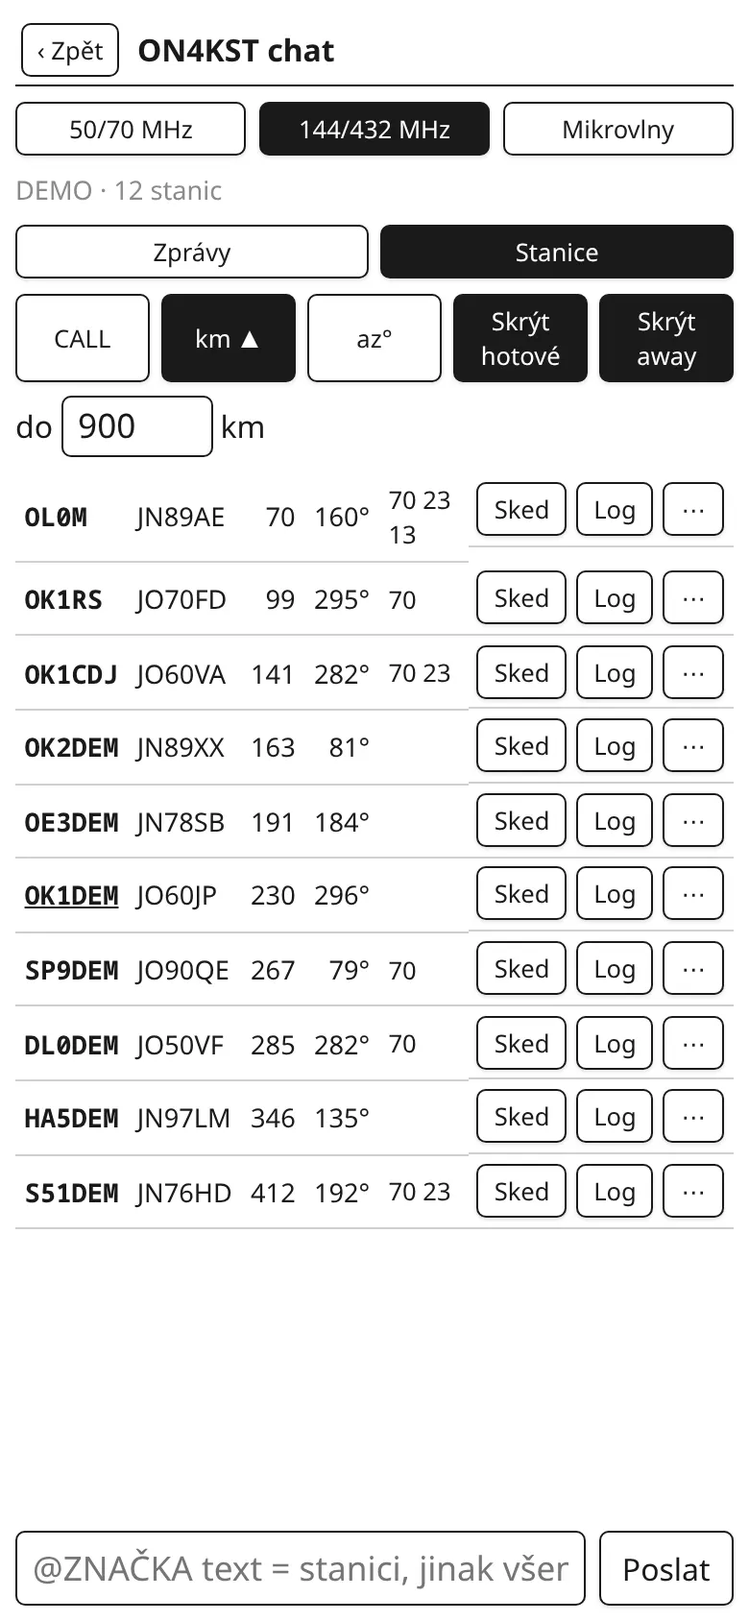
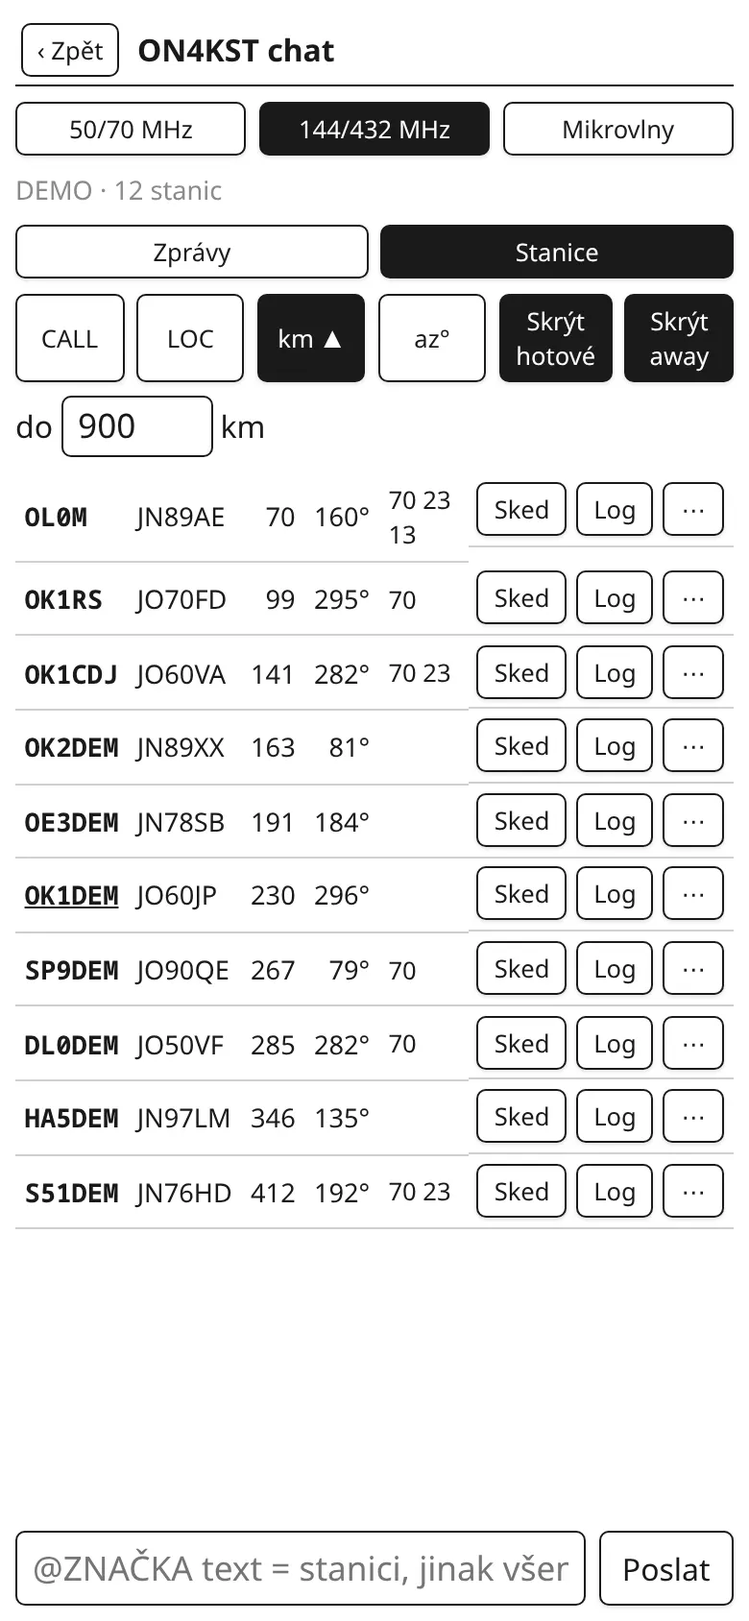
1.19: ON4KST stations under the panel scroll, sort by locator, longer chat history
The list under the contest panel shows all the chat's stations in its filters and
order (not the 30 that wrote in the last 30 minutes) and scrolls, keeping its place.
Stations sort by locator too (LOC). The chat keeps messages to me, mentioning me and
mine apart for the whole session (up to 1000) and 3000 of the others (was 500, 6–7
minutes of a busy contest); the message list draws the newest 500. "Only to me"
shows the mentions too.

Version bump: web 1.19.0 (also the iOS marketing version), Android versionCode 28 /
1.19. CHANGELOG [1.19], What's new 1.19, Play changelogs 28, manual and website text,
chat screenshots.

Changed region(s): [[0.5538, 0.1848, 0.9538, 0.2464], [0.1538, 0.154, 0.5231, 0.2464], [0.0615, 0.1848, 0.1231, 0.2156]]

diff --git a/web/public/manual/en.html b/web/public/manual/en.html
@@ -211,8 +211,8 @@
 <figure class="crop"><img src="img/en/settings-kst.webp" alt="Settings, ON4KST chat" width="374" height="744" loading="lazy"><figcaption>Settings → ON4KST chat.</figcaption></figure>
 <figure class="crop"><img src="img/en/chat-consent.webp" alt="Chat rules" width="374" height="446" loading="lazy"><figcaption>The rules before the first connection.</figcaption></figure>
 </div>
-<p><b>Messages:</b> newest at the bottom; messages to you are bold with a bar on the left, and <b>Only to me</b> shows just those. Messages of stations you already have on the log's band are grey. A tap on a message puts the sender's <code>@CALL</code> into the line at the bottom: add the text and press Enter. <code>@OK1ABC text</code> goes to that station, text without <code>@</code> to everyone in the room. The line also takes ON4KST commands as typed: <code>/SETNAME Ondra 2/70/23</code> (the name, often with the bands), <code>/SETLOC JN79US</code>.</p>
-<p><b>Stations:</b> locator, distance and bearing from the log's locator. Sort by call, km or bearing; tapping the same sort again reverses it (▲ / ▼). <b>Hide worked</b> hides the stations you already have on the log's band, <b>Hide away</b> those who are away. <b>Up to … km</b> shows only the stations within that distance (900 km by default; an empty field = no limit, stations without a locator stay); it applies to the list under the contest panel too. A station that just joined is underlined. After the bearing come the <b>bands the station is QRV on</b> (except the log's band; struck out = already worked): kQSO reads them from the name (<code>Bert 2/70/23</code>, <code>6&amp;2m</code>), from the station's messages (<code>qrv 1296.150</code>, <code>no 23</code>) and from skeds sent to it, and adds those from the callsign database. The list under the contest panel and the QRV chip while logging show them too. <b>Sked</b> puts the sked request into the line, <b>Log</b> goes back to the log with the call and locator typed in. On a narrow screen the names are left out.</p>
+<p><b>Messages:</b> newest at the bottom; messages to you are bold with a bar on the left, and <b>Only to me</b> shows just those, the ones mentioning your call and your own, from the whole session. Messages of stations you already have on the log's band are grey. A tap on a message puts the sender's <code>@CALL</code> into the line at the bottom: add the text and press Enter. <code>@OK1ABC text</code> goes to that station, text without <code>@</code> to everyone in the room. The line also takes ON4KST commands as typed: <code>/SETNAME Ondra 2/70/23</code> (the name, often with the bands), <code>/SETLOC JN79US</code>.</p>
+<p><b>Stations:</b> locator, distance and bearing from the log's locator. Sort by call, locator, km or bearing (stations without a locator last); tapping the same sort again reverses it (▲ / ▼). <b>Hide worked</b> hides the stations you already have on the log's band, <b>Hide away</b> those who are away. <b>Up to … km</b> shows only the stations within that distance (900 km by default; an empty field = no limit, stations without a locator stay); it applies to the list under the contest panel too. A station that just joined is underlined. After the bearing come the <b>bands the station is QRV on</b> (except the log's band; struck out = already worked): kQSO reads them from the name (<code>Bert 2/70/23</code>, <code>6&amp;2m</code>), from the station's messages (<code>qrv 1296.150</code>, <code>no 23</code>) and from skeds sent to it, and adds those from the callsign database. The list under the contest panel and the QRV chip while logging show them too. <b>Sked</b> puts the sked request into the line, <b>Log</b> goes back to the log with the call and locator typed in. On a narrow screen the names are left out.</p>
 <div class="figs">
 <figure class="phone"><img src="img/en/chat-messages.webp" alt="Messages" width="390" height="844" loading="lazy"><figcaption>Messages; the last one is to me.</figcaption></figure>
 <figure class="phone"><img src="img/en/chat-stations.webp" alt="Stations" width="390" height="844" loading="lazy"><figcaption>Stations by distance.</figcaption></figure>
@@ -230,7 +230,7 @@
 <figure class="crop"><img src="img/en/chat-line.webp" alt="Message from the log line" width="390" height="170" loading="lazy"><figcaption><code>@OL0M …</code> goes to the chat.</figcaption></figure>
 <figure class="crop"><img src="img/en/chat-g.webp" alt="Sked QRG" width="390" height="170" loading="lazy"><figcaption><code>G 144.290 cw</code>: the 2 m sked QRG.</figcaption></figure>
 </div>
-<p><b>Active stations under the contest panel:</b> on a tablet or computer in landscape, kQSO lists the stations that wrote in the chat in the last 30 minutes under the contest panel, sorted and filtered as the chat's station list. A tap writes <code>@CALL</code>, <b>S</b> the sked request.</p>
+<p><b>Stations under the contest panel:</b> on a tablet or computer in landscape, kQSO lists the chat's stations under the contest panel, sorted and filtered as the chat's station list; the list scrolls. A tap writes <code>@CALL</code>, <b>S</b> the sked request.</p>
 <figure class="wide"><img src="img/en/chat-tablet.webp" alt="The chat on a tablet" width="1280" height="800" loading="lazy"><figcaption>Tablet: a message to me under the header, the active stations under the contest panel.</figcaption></figure>
 <p><b>Locator:</b> the QRB and bearing the others see come from your ON4KST account's locator. When it differs from the log's (portable), the chat and the list under the panel offer <b>Set JN89AB</b>, which sends <code>/SETLOC</code>. Nothing is sent by itself.</p>
 <p><b>Apps and web:</b> the Android and iOS apps connect to ON4KST directly. A browser can't, so the web version goes through the kQSO relay, which only passes the data on and stores nothing. The ON4KST protocol sends the password unencrypted; it is stored only on your device.</p>

diff --git a/web/public/manual/cs.html b/web/public/manual/cs.html
@@ -211,8 +211,8 @@
 <figure class="crop"><img src="img/cs/settings-kst.webp" alt="Nastavení ON4KST chat" width="374" height="745" loading="lazy"><figcaption>Nastavení → ON4KST chat.</figcaption></figure>
 <figure class="crop"><img src="img/cs/chat-consent.webp" alt="Pravidla chatu" width="374" height="424" loading="lazy"><figcaption>Pravidla před prvním připojením.</figcaption></figure>
 </div>
-<p><b>Zprávy:</b> nejnovější dole; zprávy pro tebe jsou tučně s čárou vlevo a <b>Jen pro mě</b> ukáže jen je. Zprávy stanic, které už máš na pásmu logu, jsou šedé. Klepnutí na zprávu napíše do řádku dole <code>@ZNAČKA</code> odesílatele, stačí dopsat text a Enter. <code>@OK1ABC text</code> jde stanici, text bez <code>@</code> všem v místnosti. Řádek přijme i příkazy ON4KST tak, jak jsou: <code>/SETNAME Ondra 2/70/23</code> (jméno, často s pásmy), <code>/SETLOC JN79US</code>.</p>
-<p><b>Stanice:</b> lokátor, vzdálenost a azimut od lokátoru logu. Řadí se podle značky, km nebo azimutu; druhé klepnutí na stejné řazení ho obrátí (▲ / ▼). <b>Skrýt hotové</b> schová stanice, které už máš na pásmu logu, <b>Skrýt away</b> ty, které jsou pryč. <b>Do … km</b> ukáže jen stanice do té vzdálenosti (výchozí 900 km; prázdné pole = bez omezení, stanice bez lokátoru zůstávají); platí i pro seznam pod závodním panelem. Nově příchozí stanice je podtržená. Za azimutem jsou <b>pásma, na kterých je stanice QRV</b> (kromě pásma logu, přeškrtnutá už máš): kQSO je čte ze jména (<code>Bert 2/70/23</code>, <code>6&amp;2m</code>), ze zpráv stanice (<code>qrv 1296.150</code>, <code>no 23</code>) a ze skedů, které jí přišly, a přidá ta z databáze značek. Stejně je ukáže i seznam pod závodním panelem a štítek QRV při zápisu spojení. <b>Sked</b> napíše do řádku žádost o sked, <b>Log</b> se vrátí do logu se značkou a lokátorem na řádku. Na úzkém displeji se jména nezobrazují.</p>
+<p><b>Zprávy:</b> nejnovější dole; zprávy pro tebe jsou tučně s čárou vlevo a <b>Jen pro mě</b> ukáže jen je, zprávy zmiňující tvou značku a tvoje vlastní, za celou relaci. Zprávy stanic, které už máš na pásmu logu, jsou šedé. Klepnutí na zprávu napíše do řádku dole <code>@ZNAČKA</code> odesílatele, stačí dopsat text a Enter. <code>@OK1ABC text</code> jde stanici, text bez <code>@</code> všem v místnosti. Řádek přijme i příkazy ON4KST tak, jak jsou: <code>/SETNAME Ondra 2/70/23</code> (jméno, často s pásmy), <code>/SETLOC JN79US</code>.</p>
+<p><b>Stanice:</b> lokátor, vzdálenost a azimut od lokátoru logu. Řadí se podle značky, lokátoru, km nebo azimutu (stanice bez lokátoru na konci); druhé klepnutí na stejné řazení ho obrátí (▲ / ▼). <b>Skrýt hotové</b> schová stanice, které už máš na pásmu logu, <b>Skrýt away</b> ty, které jsou pryč. <b>Do … km</b> ukáže jen stanice do té vzdálenosti (výchozí 900 km; prázdné pole = bez omezení, stanice bez lokátoru zůstávají); platí i pro seznam pod závodním panelem. Nově příchozí stanice je podtržená. Za azimutem jsou <b>pásma, na kterých je stanice QRV</b> (kromě pásma logu, přeškrtnutá už máš): kQSO je čte ze jména (<code>Bert 2/70/23</code>, <code>6&amp;2m</code>), ze zpráv stanice (<code>qrv 1296.150</code>, <code>no 23</code>) a ze skedů, které jí přišly, a přidá ta z databáze značek. Stejně je ukáže i seznam pod závodním panelem a štítek QRV při zápisu spojení. <b>Sked</b> napíše do řádku žádost o sked, <b>Log</b> se vrátí do logu se značkou a lokátorem na řádku. Na úzkém displeji se jména nezobrazují.</p>
 <div class="figs">
 <figure class="phone"><img src="img/cs/chat-messages.webp" alt="Zprávy" width="390" height="844" loading="lazy"><figcaption>Zprávy; poslední je pro mě.</figcaption></figure>
 <figure class="phone"><img src="img/cs/chat-stations.webp" alt="Stanice" width="390" height="844" loading="lazy"><figcaption>Stanice podle vzdálenosti.</figcaption></figure>
@@ -230,7 +230,7 @@
 <figure class="crop"><img src="img/cs/chat-line.webp" alt="Zpráva z řádku logu" width="390" height="170" loading="lazy"><figcaption><code>@OL0M …</code> jde do chatu.</figcaption></figure>
 <figure class="crop"><img src="img/cs/chat-g.webp" alt="QRG pro sked" width="390" height="170" loading="lazy"><figcaption><code>G 144.290 cw</code>: QRG pro sked na 2 m.</figcaption></figure>
 </div>
-<p><b>Aktivní stanice pod závodním panelem:</b> na tabletu nebo počítači na šířku ukáže kQSO pod závodním panelem stanice, které v chatu psaly posledních 30 minut, se stejným řazením a filtry jako seznam stanic v chatu. Klepnutí napíše <code>@ZNAČKA</code>, <b>S</b> žádost o sked.</p>
+<p><b>Stanice pod závodním panelem:</b> na tabletu nebo počítači na šířku ukáže kQSO pod závodním panelem stanice z chatu se stejným řazením a filtry jako seznam stanic v chatu; seznamem jde posouvat. Klepnutí napíše <code>@ZNAČKA</code>, <b>S</b> žádost o sked.</p>
 <figure class="wide"><img src="img/cs/chat-tablet.webp" alt="Chat na tabletu" width="1280" height="800" loading="lazy"><figcaption>Tablet: zpráva pro mě pod hlavičkou, aktivní stanice pod závodním panelem.</figcaption></figure>
 <p><b>Lokátor:</b> QRB a azimut, které vidí ostatní, počítá ON4KST z lokátoru tvého účtu. Když se liší od lokátoru logu (portable), nabídne chat i seznam pod panelem <b>Nastavit JN89AB</b>, které pošle <code>/SETLOC</code>. Samo se nic neposílá.</p>
 <p><b>Aplikace a web:</b> aplikace pro Android a iOS se k ON4KST připojují přímo. Prohlížeč to neumí, proto webová verze jde přes relé kQSO, které data jen předává a nic neukládá. Protokol ON4KST posílá heslo nešifrovaně; uložené je jen v tvém zařízení.</p>

diff --git a/web/src/ui/screens/logging.ts b/web/src/ui/screens/logging.ts
@@ -55,7 +55,6 @@ import {
   kstStations,
   locatorToSet,
   matchSkedQrg,
-  isActive,
   viewStations,
   SKED_DEFAULT,
 } from '../../core/index'
@@ -123,7 +122,6 @@ const MACRO_BUTTONS: ReadonlyArray<readonly [MacroSlot, string | undefined]> = [
 const F_SLOTS: readonly MacroSlot[] = ['CQ', 'EXCH', 'TU', '?', 'MYCALL', 'INFO']
 // ON4KST chat: a line bubble for the header button; rows of the station list under the board.
 const CHAT_ICON = 'M4 5h16v11H10l-4 4v-4H4z'
-const CHAT_ROWS = 30 // rendered; CSS clips whatever doesn't fit under the board
 
 export class LoggingScreen implements Screen {
   private meta!: LogMeta
@@ -149,6 +147,8 @@ export class LoggingScreen implements Screen {
   // Right column in the wide contest layout: the board, under it the chat's active stations.
   private readonly sideEl = el('div', 'side')
   private readonly stationsEl = el('div', 'kst-side')
+  private readonly stationsHeadEl = el('div', 'kst-side-head')
+  private readonly stationsListEl = el('ol', 'kst-side-list') // scrolls; kept across re-renders
   private stationsKey = '' // what the station list shows (re-render on change only: e-ink)
   private skedTemplate = SKED_DEFAULT
   private readonly inputEl = el('div', 'inputline')
@@ -327,10 +327,7 @@ export class LoggingScreen implements Screen {
     this.updateBoard()
     // First tick on the next whole period (e-ink: the minute), so the clock doesn't lag up to a minute.
     const ms = this.board.tickMs
-    const tick = (): void => {
-      this.board.tick(new Date())
-      this.renderStations() // "active" ages out with time
-    }
+    const tick = (): void => this.board.tick(new Date())
     this.boardTimer = setTimeout(() => {
       tick()
       this.boardTimer = setInterval(tick, ms)
@@ -1733,8 +1730,9 @@ export class LoggingScreen implements Screen {
     this.renderAll()
   }
 
-  /** Under the board: the chat's active stations, filtered and sorted as in the chat
-   *  (KstController.view); a tap addresses one, S fills in the sked request. Rewritten only on change. */
+  /** Under the board: the chat's stations, filtered and sorted as in the chat
+   *  (KstController.view), in a list that scrolls; a tap addresses one, S fills in the sked
+   *  request. Rewritten only on change, keeping the scroll position. */
   private renderStations(): void {
     if (this.sideEl.hidden || !this.chatOn() || (!this.kst.wanted && this.kst.link !== 'on')) {
       if (this.stationsKey !== '') this.stationsEl.replaceChildren()
@@ -1742,25 +1740,24 @@ export class LoggingScreen implements Screen {
       return
     }
     const band = this.state.sticky.band
-    const now = Date.now() / 1000
     const rows = viewStations(
-      kstStations(this.kst.chat, this.meta.myGrid, (c) => isDupe(this.qsos, c, band)).filter((s) => isActive(s, now) && !this.kst.isMuted(s.call)),
+      kstStations(this.kst.chat, this.meta.myGrid, (c) => isDupe(this.qsos, c, band)).filter((s) => !this.kst.isMuted(s.call)),
       this.kst.view,
-    ).slice(0, CHAT_ROWS)
-    const head = this.kst.link === 'on' ? t('kst.active', { n: rows.length }) : this.kst.link === 'off' || this.kst.link === 'failed' ? t('kst.off') : t('kst.connecting')
+    )
+    const head = this.kst.link === 'on' ? t('kst.shown', { n: rows.length }) : this.kst.link === 'off' || this.kst.link === 'failed' ? t('kst.off') : t('kst.connecting')
     const loc = this.kst.link === 'on' ? locatorToSet(this.kst.locator, this.meta.myGrid) : undefined
     const key = [this.kst.room, head, loc, ...rows.map((s) => `${s.call}|${s.loc}|${s.km}|${s.az}|${s.isNew}|${s.worked}|${s.away}|${this.kst.qrvOf(s.call) ?? ''}`)].join(';')
     if (key === this.stationsKey) return
     this.stationsKey = key
-    const title = el('div', 'kst-side-head', `KST · ${head}`)
-    const list = el('ol', 'kst-side-list')
+    this.stationsHeadEl.textContent = `KST · ${head}`
+    const items: HTMLElement[] = []
     if (loc) {
       // ON4KST has me elsewhere: the others' QRB is wrong — a tap sends /SETLOC.
       const li = el('li')
       const set = this.suggestButton(`${t('kst.setLoc', { loc })} (ON4KST ${this.kst.locator ?? ''})`, () => this.setKstLocator(loc), 'kst-side-row kst-side-row--new')
       set.title = t('kst.locDiffers', { kst: this.kst.locator ?? '', log: loc })
       li.append(set)
-      list.append(li)
+      items.push(li)
     }
     for (const s of rows) {
       const li = el('li')
@@ -1770,10 +1767,13 @@ export class LoggingScreen implements Screen {
       const qrv = this.qrvLabelsEl(baseCall(s.call), band)
       if (qrv) row.append(' ', qrv)
       li.append(row, sked)
-      list.append(li)
+      items.push(li)
     }
-    if (rows.length === 0 && this.kst.link === 'on') list.append(el('li', 'about', t('kst.noActive')))
-    this.stationsEl.replaceChildren(title, list)
+    if (rows.length === 0 && this.kst.link === 'on') items.push(el('li', 'about', t('kst.noStations')))
+    const top = this.stationsListEl.scrollTop
+    this.stationsListEl.replaceChildren(...items)
+    this.stationsListEl.scrollTop = top
+    if (this.stationsEl.firstChild !== this.stationsHeadEl) this.stationsEl.replaceChildren(this.stationsHeadEl, this.stationsListEl)
   }
 
   private skedText(): string {

diff --git a/web/src/core/kst.ts b/web/src/core/kst.ts
@@ -12,8 +12,12 @@ export const KST_PORT = 23001
 /** 1 = 50/70 MHz, 2 = 144/432 MHz, 3 = microwaves. */
 export type KstRoom = 1 | 2 | 3
 
-/** Messages kept per state (oldest dropped). */
-export const KST_MESSAGES_MAX = 500
+/** Messages between the others kept per state, oldest dropped (a busy contest has ~80 a
+ *  minute: over half an hour). */
+export const KST_MESSAGES_MAX = 3000
+/** Mine, to me and mentioning me: kept apart from the others, so a sked request from an hour
+ *  ago is still there however busy the room. */
+export const KST_PERSONAL_MAX = 1000
 
 /** The room for a band: 6 m / 4 m → 1, 2 m / 70 cm → 2, 23 cm and up → 3; HF → undefined. */
 export function roomForBand(band: string): KstRoom | undefined {
@@ -236,6 +240,8 @@ export class KstState {
   readonly users = new Map<string, KstUser>()
   /** Oldest first. */
   readonly messages: KstEntry[] = []
+  /** How many of `messages` are personal (isPersonal). */
+  private personal = 0
   /** Newest message time, for LOGINC on reconnect (ask from lastTs - 1). */
   lastTs = 0
   /** The station list after login is complete (UE received). */
@@ -302,12 +308,24 @@ export class KstState {
     let i = this.messages.length
     while (i > 0 && this.messages[i - 1]!.ts > msg.ts) i--
     this.messages.splice(i, 0, entry)
-    if (this.messages.length > KST_MESSAGES_MAX) {
-      const old = this.messages.shift()!
-      this.seen.delete(`${old.ts}|${old.call}|${old.text}`)
-    }
+    if (this.isPersonal(entry)) this.personal++
+    if (this.personal > KST_PERSONAL_MAX) this.dropOldest(true)
+    if (this.messages.length - this.personal > KST_MESSAGES_MAX) this.dropOldest(false)
     this.lastTs = Math.max(this.lastTs, msg.ts)
     return entry
+  }
+
+  /** Mine, to me or mentioning me. */
+  isPersonal(m: KstEntry): boolean {
+    return m.forMe || m.mentionsMe || this.isMe(m.call)
+  }
+
+  private dropOldest(personal: boolean): void {
+    const i = this.messages.findIndex((m) => this.isPersonal(m) === personal)
+    if (i < 0) return
+    const [old] = this.messages.splice(i, 1)
+    if (personal) this.personal--
+    this.seen.delete(`${old!.ts}|${old!.call}|${old!.text}`)
   }
 }
 
@@ -442,12 +460,12 @@ export interface KstStation extends KstUser {
   readonly lastTs: number | undefined
 }
 
-export type KstSort = 'call' | 'km' | 'az'
+export type KstSort = 'call' | 'loc' | 'km' | 'az'
 
 /** How the station lists are shown; shared by the chat screen and the logging screen. */
 export interface KstView {
   readonly sort: KstSort
-  /** Descending: Z–A, farthest, 360° first. */
+  /** Descending: Z–A (call or locator), farthest, 360° first. */
   readonly desc: boolean
   readonly hideWorked: boolean
   readonly hideAway: boolean
@@ -479,11 +497,12 @@ export function isActive(s: KstStation, nowS: number, windowS = KST_ACTIVE_S): b
   return s.lastTs !== undefined && nowS - s.lastTs <= windowS
 }
 
-/** Sorted copy; unknown km / az last in both directions. */
+/** Sorted copy; no locator / unknown km / az last in both directions. */
 export function sortStations(list: readonly KstStation[], by: KstSort, desc = false): KstStation[] {
   const dir = desc ? -1 : 1
   return [...list].sort((a, b) => {
     if (by === 'call') return dir * a.call.localeCompare(b.call)
+    if (by === 'loc') return (a.loc ? 0 : 1) - (b.loc ? 0 : 1) || dir * a.loc.localeCompare(b.loc) || a.call.localeCompare(b.call)
     const x = a[by]
     const y = b[by]
     if (x === undefined || y === undefined) return (x === undefined ? 1 : 0) - (y === undefined ? 1 : 0) || a.call.localeCompare(b.call)

diff --git a/web/tests/kst.test.ts b/web/tests/kst.test.ts
@@ -18,6 +18,7 @@ import {
   KstState,
   KstSession,
   KST_MESSAGES_MAX,
+  KST_PERSONAL_MAX,
   kstStations,
   isActive,
   sortStations,
@@ -192,8 +193,19 @@ describe('KstState', () => {
     expect(s.apply(ch(10, 'OK1KPA', 'pse sked', 'OK1CDJ'))).toBeUndefined() // repeated history
     expect(s.lastTs).toBe(13)
     for (let i = 0; i < KST_MESSAGES_MAX + 5; i++) s.apply(ch(100 + i, 'X', `m${i}`))
-    expect(s.messages.length).toBe(KST_MESSAGES_MAX)
-    expect(s.messages[0]!.text).toBe('m5')
+    // The others drop oldest first; mine, to me and mentioning me stay.
+    expect(s.messages.length).toBe(KST_MESSAGES_MAX + 3)
+    expect(s.messages.slice(0, 5).map((m) => m.text)).toEqual(['pse sked', 'ok1cdj is qrv 432.2', 'cq OK1CDJ', 'm5', 'm6'])
+    expect(s.apply(ch(100, 'X', 'm0'))).toBeDefined() // dropped, so new again
+  })
+
+  it('keeps the personal messages apart, up to their own limit', () => {
+    const s = new KstState('OK1CDJ')
+    for (let i = 0; i < KST_PERSONAL_MAX + 3; i++) s.apply(ch(10 + i, 'OK1KPA', `p${i}`, 'OK1CDJ'))
+    s.apply(ch(5000, 'X', 'other'))
+    expect(s.messages.length).toBe(KST_PERSONAL_MAX + 1)
+    expect(s.messages[0]!.text).toBe('p3')
+    expect(s.messages.at(-1)!.text).toBe('other')
   })
 
   it('keeps messages oldest first although the history comes newest first', () => {
@@ -342,6 +354,10 @@ describe('station list', () => {
     expect(km.map((s) => s.km).slice(0, 3)).toEqual([...km.map((s) => s.km).slice(0, 3)].sort((a, b) => b! - a!))
     const az = sortStations(list, 'az', true)
     expect(az.at(-1)!.call).toBe('XX1XX')
+  })
+  it('sorts by locator A–Z or Z–A; no locator last', () => {
+    expect(sortStations(list, 'loc').map((s) => s.loc)).toEqual(['JO60LJ', 'JO62AA', 'JO82EH', ''])
+    expect(sortStations(list, 'loc', true).map((s) => s.loc)).toEqual(['JO82EH', 'JO62AA', 'JO60LJ', ''])
   })
   it('the view filters worked and away, then sorts', () => {
     const v = { sort: 'call', desc: false, hideWorked: true, hideAway: true, maxKm: null } as const

diff --git a/web/src/ui/screens/chat.ts b/web/src/ui/screens/chat.ts
@@ -32,6 +32,8 @@ export interface ChatContext {
 
 // Kept while the app runs: coming back shows the same tab (sort and filters are in the controller).
 let tab: 'messages' | 'stations' = 'messages'
+/** Messages drawn in the list (the newest). */
+const SHOWN_MAX = 500
 let onlyMe = false
 
 const ROOMS: readonly KstRoom[] = [1, 2, 3]
@@ -204,7 +206,9 @@ export class ChatScreen implements Screen {
     this.toolsEl.replaceChildren(this.toggle(t('kst.onlyMe'), onlyMe, () => (onlyMe = !onlyMe)))
     const stick = this.bodyEl.scrollHeight - this.bodyEl.scrollTop - this.bodyEl.clientHeight < 40
     const k = this.kst
-    const msgs = k.chat.messages.filter((m) => !k.isMuted(m.call) && (!onlyMe || m.forMe || k.chat.isMe(m.call)))
+    // The chat keeps more than is worth drawing on every message: all of "only to me", the
+    // newest SHOWN_MAX of the rest.
+    const msgs = k.chat.messages.filter((m) => !k.isMuted(m.call) && (!onlyMe || k.chat.isPersonal(m))).slice(onlyMe ? 0 : -SHOWN_MAX)
     if (msgs.length === 0) {
       this.bodyEl.replaceChildren(el('div', 'about', t('kst.empty')))
       return
@@ -242,6 +246,7 @@ export class ChatScreen implements Screen {
       )
     const tools = [
       sortBtn('call', 'CALL'),
+      sortBtn('loc', 'LOC'),
       sortBtn('km', 'km'),
       sortBtn('az', 'az°'),
       this.toggle(t('kst.hideWorked'), v.hideWorked, () => k.setView({ hideWorked: !v.hideWorked })),

diff --git a/web/src/core/whatsnew.ts b/web/src/core/whatsnew.ts
@@ -14,6 +14,19 @@ export interface WhatsNewEntry {
 /** Newest first. */
 export const WHATS_NEW: readonly WhatsNewEntry[] = [
   {
+    version: '1.19',
+    cs: [
+      'ON4KST chat: stanice pod závodním panelem jsou všechny podle filtrů a řazení chatu a seznamem jde posouvat. Stanice jdou řadit i podle lokátoru (LOC).',
+      'Chat drží delší historii: zprávy pro tebe, zmínky o tvé značce a tvoje zprávy po celou relaci (Jen pro mě, detail stanice), ostatní přes půl hodiny rušného závodu.',
+      'Nový web kqso.eu: co kQSO umí, v češtině i angličtině.',
+    ],
+    en: [
+      'ON4KST chat: the stations under the contest panel are all of them in the chat\'s filters and order, in a list that scrolls. Stations also sort by locator (LOC).',
+      'The chat keeps a longer history: messages to you, mentioning your call and your own for the whole session (Only to me, a station\'s details), the others over half an hour of a busy contest.',
+      'A new website, kqso.eu: what kQSO does, in English and Czech.',
+    ],
+  },
+  {
     version: '1.18',
     cs: [
       'VKV závod spojení nikdy nemaže: D a Zneplatnit v úpravě QSO ho přeškrtnou jako ERROR. Zůstane v logu se svým číslem a 0 body a v EDI je jako ERROR, aby odeslaná čísla šla po sobě. Duplicitu kQSO zaloguje až po potvrzení a předchozí QSO na pásmu se pak stane ERROR.',

diff --git a/site/pages/cs/contests.html b/site/pages/cs/contests.html
@@ -88,7 +88,7 @@ description: kQSO ve VKV závodě: plnohodnotný deník pro více pásem až po 
     </div>
     <div class="split" style="margin-top:1.5rem">
       <ul class="ticks">
-        <li><b>Stanice</b> s lokátorem, vzdáleností a azimutem od tebe. Řadíš podle značky, km nebo azimutu, skryješ udělané a stanice away, omezíš vzdálenost (výchozí 900 km).</li>
+        <li><b>Stanice</b> s lokátorem, vzdáleností a azimutem od tebe. Řadíš podle značky, lokátoru, km nebo azimutu, skryješ udělané a stanice away, omezíš vzdálenost (výchozí 900 km).</li>
         <li><b>Pásma QRV</b> u každé stanice: kQSO je vyčte ze jména (<code>Bert 2/70/23</code>), ze zpráv (<code>qrv 1296.150</code>) a doplní z databáze. Pásma, kde už stanici máš, jsou přeškrtnutá.</li>
         <li><b>Sked</b> jedním ťuknutím podle tvé šablony (<code>pse sked {QRG} {MODE}?</code>). Sked kmitočet si nastavíš pro každé pásmo: <code>G 144.290</code>.</li>
         <li><b>Log</b> tě vrátí do deníku se značkou a lokátorem stanice už v řádku.</li>

diff --git a/site/pages/en/contests.html b/site/pages/en/contests.html
@@ -88,7 +88,7 @@ description: kQSO in a VHF contest: a full multi-band log up to the microwaves, 
     </div>
     <div class="split" style="margin-top:1.5rem">
       <ul class="ticks">
-        <li><b>Stations</b> with locator, distance and bearing from you. Sort by call, km or bearing, hide the worked and away ones, limit the distance (900 km by default).</li>
+        <li><b>Stations</b> with locator, distance and bearing from you. Sort by call, locator, km or bearing, hide the worked and away ones, limit the distance (900 km by default).</li>
         <li><b>QRV bands</b> for each station: kQSO reads them from the name (<code>Bert 2/70/23</code>), from the messages (<code>qrv 1296.150</code>) and adds those from the database. Bands where you already have the station are struck out.</li>
         <li><b>Sked</b> in one tap from your template (<code>pse sked {QRG} {MODE}?</code>). The sked QRG is set per band: <code>G 144.290</code>.</li>
         <li><b>Log</b> takes you back to the log with the station's call and locator already on the line.</li>

diff --git a/web/src/ui/i18n.ts b/web/src/ui/i18n.ts
@@ -323,8 +323,8 @@ const en = {
   'kst.sked': 'Sked',
   'kst.toLog': 'Log',
   'kst.public': 'to all',
-  'kst.active': '{n} active',
-  'kst.noActive': 'No active stations.',
+  'kst.shown': 'stations: {n}',
+  'kst.noStations': 'No stations.',
   'kst.empty': 'No messages yet.',
   'kst.cmdOpen': 'Open the ON4KST chat',
   'kst.locDiffers': 'ON4KST has you in {kst}, the log in {log}: the others see a wrong QRB.',
@@ -776,8 +776,8 @@ const cs: Record<keyof typeof en, string> = {
   'kst.sked': 'Sked',
   'kst.toLog': 'Log',
   'kst.public': 'všem',
-  'kst.active': '{n} aktivních',
-  'kst.noActive': 'Žádné aktivní stanice.',
+  'kst.shown': 'stanice: {n}',
+  'kst.noStations': 'Žádné stanice.',
   'kst.empty': 'Zatím žádné zprávy.',
   'kst.cmdOpen': 'Otevřít ON4KST chat',
   'kst.locDiffers': 'ON4KST tě má v {kst}, log v {log}: ostatním ukazuje špatné QRB.',

diff --git a/web/src/ui/styles.css b/web/src/ui/styles.css
@@ -1383,7 +1383,7 @@ button.cwline-word:active {
   list-style: none;
   margin: 0;
   padding: 0;
-  overflow: hidden;
+  overflow-y: auto;
   min-height: 0;
 }
 .kst-side-list li {

diff --git a/CHANGELOG.md b/CHANGELOG.md
@@ -2,10 +2,16 @@
 
 What changed in each kQSO release: the web app (kqso.ok1cdj.com), the Android app and the iOS app share one version. Newest first.
 
-## [Unreleased]
+## [1.19] – 2026-11-19
 
 ### Added
 - **Website [kqso.eu](https://kqso.eu/)** (English and Czech): what kQSO does for activations, VHF contests, satellites and radios, news, FAQ. Settings → About and the manual link it; the app stays at kqso.ok1cdj.com.
+- **ON4KST chat: sort by locator** (`LOC`, A–Z or Z–A again; stations without a locator last), in the chat's station list and under the contest panel.
+
+### Changed
+- **ON4KST stations under the contest panel**: all the chat's stations in the chat's filters and order (not only those that wrote in the last 30 minutes, cut at 30 rows), in a list that scrolls and keeps its place when a new message comes.
+- **ON4KST chat keeps a longer history**: messages to me, mentioning me and my own are kept for the whole session (up to 1000), apart from the others (3000 instead of 500, over half an hour of a busy contest, where 500 lasted 6–7 minutes); a sked request from an hour ago is still in "Only to me" and the station's details. The message list draws the newest 500.
+- **"Only to me"** also shows the messages mentioning my call (not addressed to me), as the messages kept apart.
 
 ## [1.18] – 2026-11-09
 
